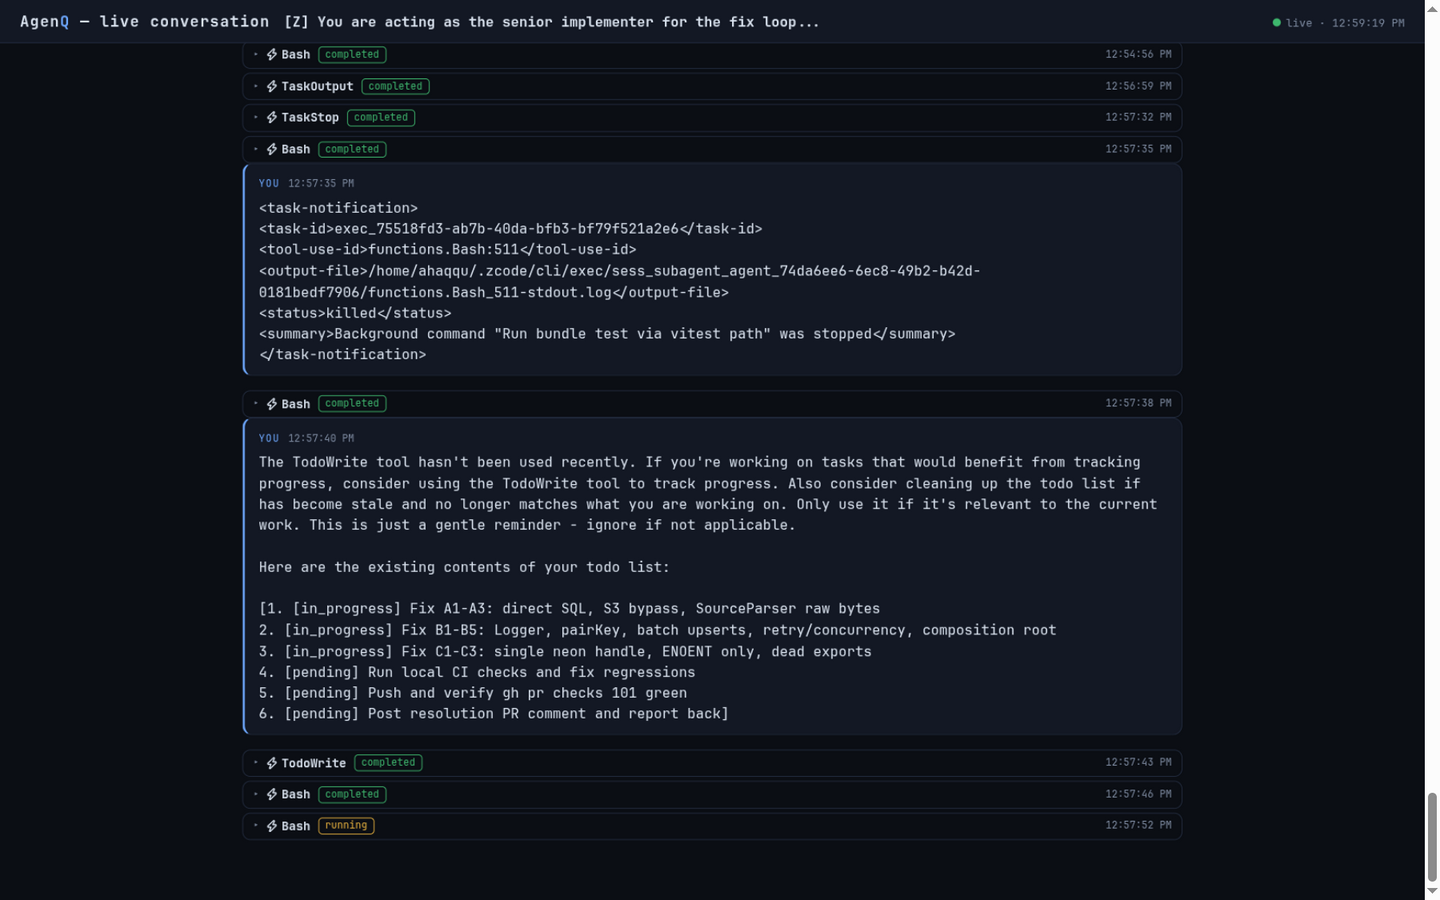
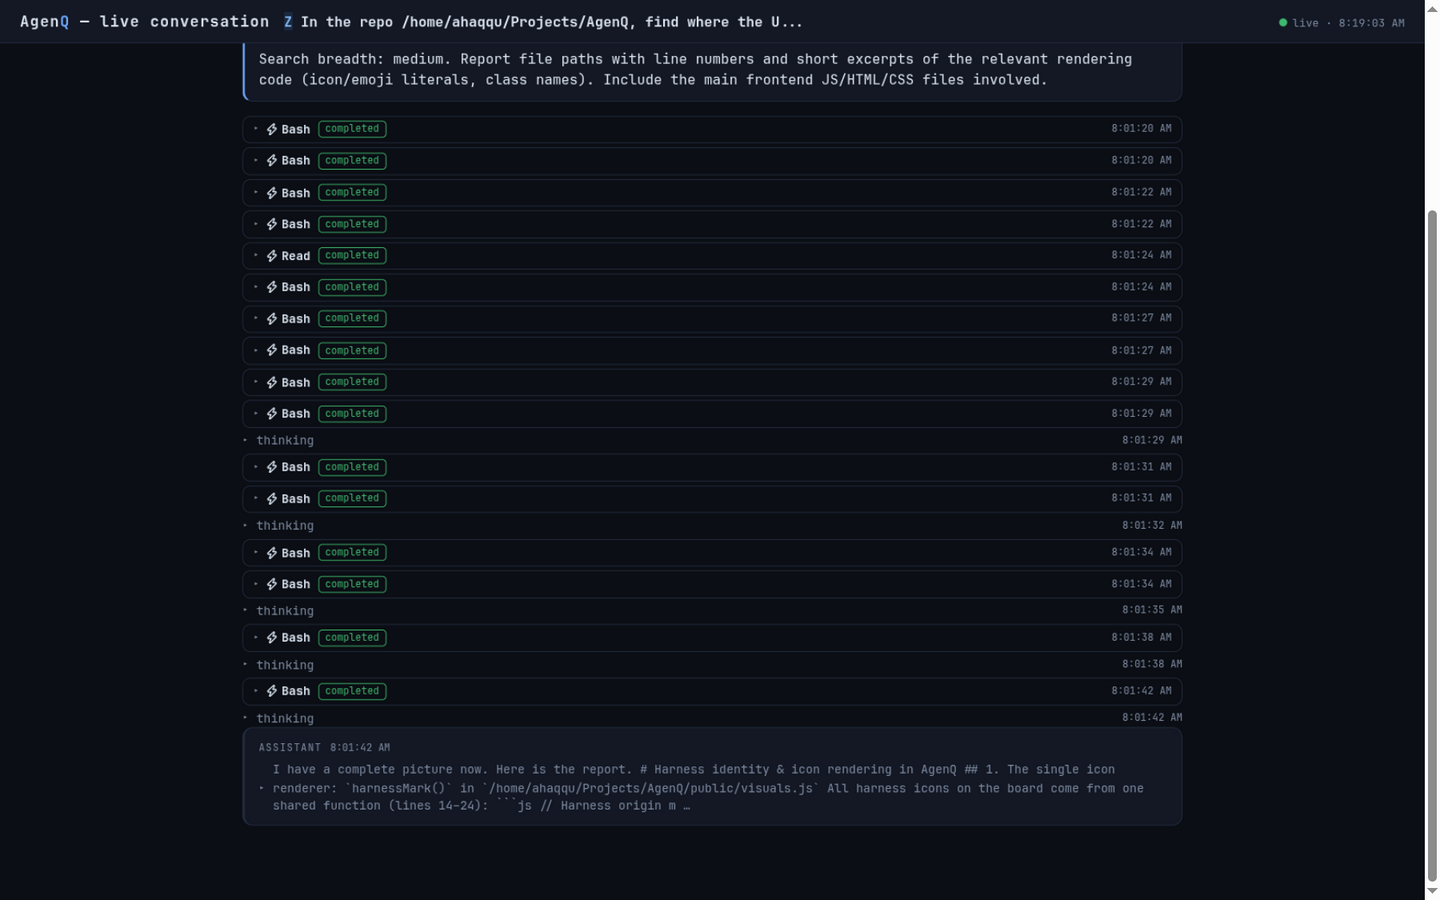
Feature: color-coded harness marks — blue Z for zcode, orange H for hermes (#16)
Every harness origin mark now carries a per-harness accent color (letter,
border, faint tint) so harnesses are distinguishable at a glance instead of
sharing one neutral boxed letter. Known ids get hand-picked hues (zcode 212
blue, hermes 26 orange); unknown ids get a stable hue hashed from the id, so
future adapters are colored automatically with no map edit.

- visuals.js: HARNESS_HUE/harnessHue/harnessStyle; harnessMark inlines the color
- app.js: legend marks (static row + per-adapter list) use the same helper
- conversation.js: header prefix replaced [Z]/[H] text with the real colored
  harnessMark; title now HTML-escaped (innerHTML)
- READMEs + docs screenshots updated (retaken at 1440x900)

Changed region(s): [[0.1562, 0.0, 0.8125, 0.9333], [0.9688, 0.2489, 1.0, 0.8711], [0.875, 0.0, 0.9062, 0.0311]]

diff --git a/public/visuals.js b/public/visuals.js
@@ -15,12 +15,26 @@ const ROLE_EMOJI = {
 // (zcode → Z, hermes → H), so any future adapter gets a mark with no map
 // and no client edit. One identical mark on every surface — no label
 // variant; the full harness name lives in the tooltip and the legend.
+// Each mark also carries a per-harness accent color (letter, border, faint
+// tint) so harnesses are distinguishable at a glance: known ids get a
+// hand-picked hue, anything else a stable one hashed from the id.
 // Accepts a session object (uses its `harness` field), a bare harness id
 // (ticker entries), or null.
+const HARNESS_HUE = { "zcode": 212, "hermes": 26 };
+function harnessHue(id) {
+  if (HARNESS_HUE[id] != null) return HARNESS_HUE[id];
+  let x = 0;
+  for (let i = 0; i < id.length; i++) x = (x * 31 + id.charCodeAt(i)) % 360;
+  return x;
+}
+function harnessStyle(h) {
+  const hue = harnessHue(h);
+  return `color:hsl(${hue} 85% 74%);border-color:hsl(${hue} 55% 46%);background:hsl(${hue} 75% 60% / .14)`;
+}
 function harnessMark(s) {
   const h = typeof s === "string" ? s : (s?.harness ?? "");
   if (!h) return "";
-  return `<span class="hmark" title="harness: ${esc(h)}">${esc(h.charAt(0).toUpperCase())}</span>`;
+  return `<span class="hmark" style="${harnessStyle(h)}" title="harness: ${esc(h)}">${esc(h.charAt(0).toUpperCase())}</span>`;
 }
 const CTX_LIMIT = 200_000; // the cliff from the #94 analysis
 

diff --git a/public/app.js b/public/app.js
@@ -275,7 +275,7 @@ $("legend").innerHTML = `
     <div class="lrow"><span class="ic">🤖</span> other subagent role</div>
     <div class="lrow"><span class="ic">💤</span> idle 5m+ but process still alive</div>
     <div class="lrow"><span class="ic">⚠</span> last error of that agent</div>
-    <div class="lrow"><span class="ic hmark">Z</span> harness mark — every row shows which harness runs the agent (<span id="legend-harnesses"></span>)</div>
+    <div class="lrow"><span class="ic hmark" style="${harnessStyle("zcode")}">Z</span> harness mark — every row shows which harness runs the agent (<span id="legend-harnesses"></span>)</div>
     <div class="lrow"><span class="ic">⏹</span> kill process — stops every live process of that project run (the whole run stops)</div>
   </div>`;
 
@@ -285,7 +285,7 @@ function renderLegendHarnesses(harnesses) {
   const row = $("legend-harnesses");
   if (!row) return;
   row.innerHTML = (harnesses ?? []).map((h) =>
-    `<span title="harness: ${esc(h.id)}"><span class="hmark">${esc(h.id.charAt(0).toUpperCase())}</span> ${esc(h.label)}</span>`
+    `<span title="harness: ${esc(h.id)}"><span class="hmark" style="${harnessStyle(h.id)}">${esc(h.id.charAt(0).toUpperCase())}</span> ${esc(h.label)}</span>`
   ).join(" · ") || "none mounted";
 }
 

diff --git a/public/conversation.js b/public/conversation.js
@@ -68,11 +68,12 @@ async function poll() {
     if (d.error) throw new Error(d.error);
     if (d.title) {
       // prefix = owning harness (zcode:sess_x / hermes:7) — mark it so a
-      // conversation tab is identifiable independent of the board. The
-      // letter matches the board's harness marks (first letter, uppercased).
+      // conversation tab is identifiable independent of the board. Reuses
+      // the board's colored harnessMark so the letter and its accent color
+      // match every other surface.
       const h = id.includes(":") ? id.split(":")[0] : null;
-      document.getElementById("title").textContent =
-        (h ? `[${h.charAt(0).toUpperCase()}] ` : "") + d.title;
+      document.getElementById("title").innerHTML =
+        (h ? harnessMark(h) + " " : "") + esc(d.title);
       document.title = d.title + " — AgenQ live";
     }
     if (d.items?.length) {

diff --git a/public/index.html b/public/index.html
@@ -114,8 +114,9 @@
   .kid .name { font-weight: 700; }
   .kid .model { color: var(--dim); font-size: 11px; margin-left: auto; }
   /* inline harness origin mark: a boxed letter (Z/H, first letter of the
-     harness id), identical on every item type; the full name is in the
-     tooltip and the legend */
+     harness id), identical on every item type; per-harness accent color is
+     applied inline by harnessStyle() in visuals.js. The full name is in
+     the tooltip and the legend */
   .hmark {
     font-size: 9px; flex: none; cursor: default;
     border: 1px solid var(--line); border-radius: 3px; padding: 0 3px;

diff --git a/README.md b/README.md
@@ -4,9 +4,9 @@ Live mission-control monitor for AI coding-agent harnesses — ZCode and [Hermes
 
 AgenQ reads (read-only) the telemetry harnesses already write on disk and turns it into a live board:
 
-![AgenQ mission control — sessions from ZCode and Hermes merged into one board ordered by recency, every row carrying its harness letter mark (Z = zcode, H = hermes), a recent-activity feed (tool calls, errors, session starts) with a category filter capped at 20 rows — full-width when no failures — failure alerts, and token-burn sparklines against the 200k context cliff; main-session and subagent cards each carry a 💬 button into the live conversation](docs/screenshot.png)
+![AgenQ mission control — sessions from ZCode and Hermes merged into one board ordered by recency, every row carrying its color-coded harness letter mark (blue Z = zcode, orange H = hermes), a recent-activity feed (tool calls, errors, session starts) with a category filter capped at 20 rows — full-width when no failures — failure alerts, and token-burn sparklines against the 200k context cliff; main-session and subagent cards each carry a 💬 button into the live conversation](docs/screenshot.png)
 
-- **One merged board** — sessions from every mounted harness mix in the same tree, ticker, Active Now strip and failure panel, ordered by project and then recency; only the small boxed-letter mark (Z / H, hover for the name) says which harness runs an agent — nothing else is separated
+- **One merged board** — sessions from every mounted harness mix in the same tree, ticker, Active Now strip and failure panel, ordered by project and then recency; only the small boxed-letter mark (a blue Z for zcode, an orange H for hermes — each harness has its own accent color, hover for the name) says which harness runs an agent — nothing else is separated
 - **Agent tree** — the manager session with every dispatched subagent under it (role, model, live status)
 - **Token-burn sparklines** — input tokens per request per agent, with a dashed marker at the 200K context cliff (the cliff that cost 36M tokens in the run that motivated this tool — see ahaqqu/agentic-project-template#94)
 - **Live todos** — each agent's todo list, animated as it progresses
@@ -65,7 +65,7 @@ bun monitor.mjs --port 8787 --window-hours 12 \
 
 ## Where the data comes from
 
-AgenQ is harness-agnostic: any tool that runs AI coding sessions can appear on the board by mounting a **harness adapter**. ZCode and Hermes ship adapters; others plug in the same way — see [`harness/README.md`](harness/README.md) for the adapter contract. The registry namespaces every session id by harness (`zcode:sess_…`, `hermes:2026…`), merges all harnesses into one board, and routes the lazy per-session endpoints to the harness that owns the id. Every board item carries a harness origin mark (boxed first letter of the harness id — Z, H), so a growing set of harnesses stays readable without ever splitting the board.
+AgenQ is harness-agnostic: any tool that runs AI coding sessions can appear on the board by mounting a **harness adapter**. ZCode and Hermes ship adapters; others plug in the same way — see [`harness/README.md`](harness/README.md) for the adapter contract. The registry namespaces every session id by harness (`zcode:sess_…`, `hermes:2026…`), merges all harnesses into one board, and routes the lazy per-session endpoints to the harness that owns the id. Every board item carries a harness origin mark (boxed first letter of the harness id in a per-harness accent color — a blue Z, an orange H; unknown harnesses get a stable hue hashed from their id), so a growing set of harnesses stays readable without ever splitting the board.
 
 Adapters can only surface what a harness's telemetry records — and they record different things. [docs/harness-data-parity.md](docs/harness-data-parity.md) is the honest ledger: what each board slot maps to per harness, what is inherently unknowable, what is recoverable with adapter work, and what AgenQ deliberately does not read.
 

diff --git a/harness/README.md b/harness/README.md
@@ -89,9 +89,9 @@ registry only namespaces them.
    against that harness's telemetry (SQLite, JSONL, whatever it leaves on
    disk). Give it its own `config.mjs` for flags and defaults, mirroring
    `harness/zcode/config.mjs` — `windowHours` and any `--<harness>-…` paths.
-   The board derives each origin mark (boxed letter, e.g. `Z`, `H`) from the
-   harness id automatically — nothing to configure; the contract's optional
-   `letter` field can override it.
+   The board derives each origin mark (boxed letter, e.g. `Z`, `H`, in a
+   per-harness accent color) from the harness id automatically — nothing to
+   configure; the contract's optional `letter` field can override the letter.
 2. Register it in `harness/index.mjs`.
 3. If it has a stop action, implement `stopRun` and set `hasStop: true`.
 
